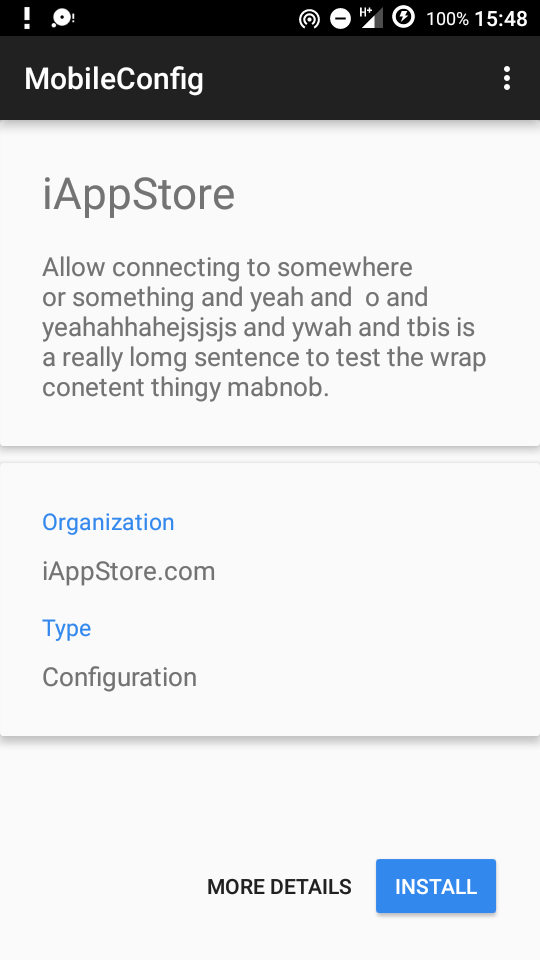
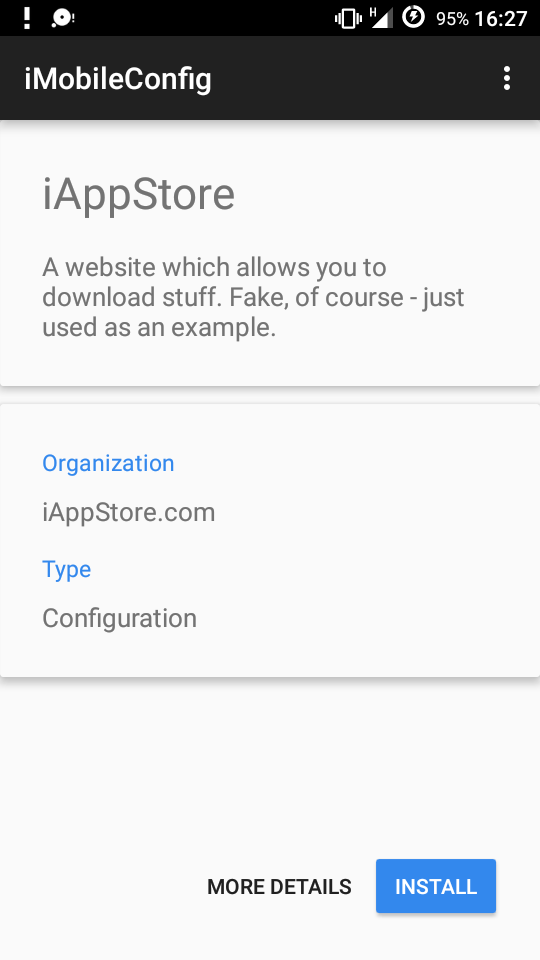
New screenshots

diff --git a/README.md b/README.md
@@ -1,6 +1,6 @@
 # iMobileConfig
 An Android app that can parse iOS MobileConfig files.  
 
-![alt](screenshot.jpg)
+![alt](screenshot.jpg) ![alt](screenshot2.jpg)
   
-Currently it can only parse some basic info, but more will come!
+Currently it can only parse some basic info, but more will come! [Sample APK](sample.apk)
